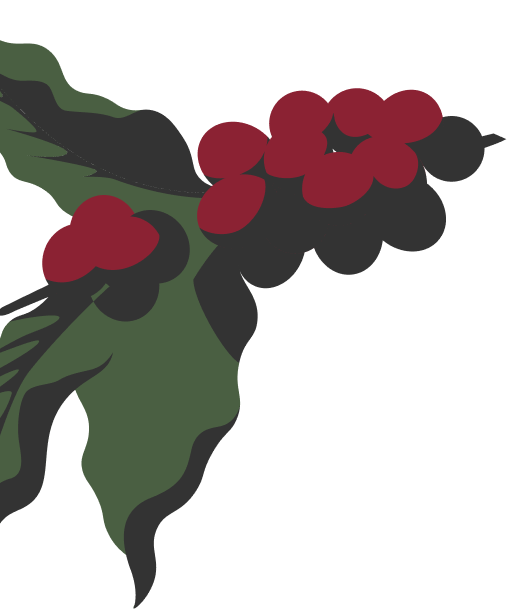
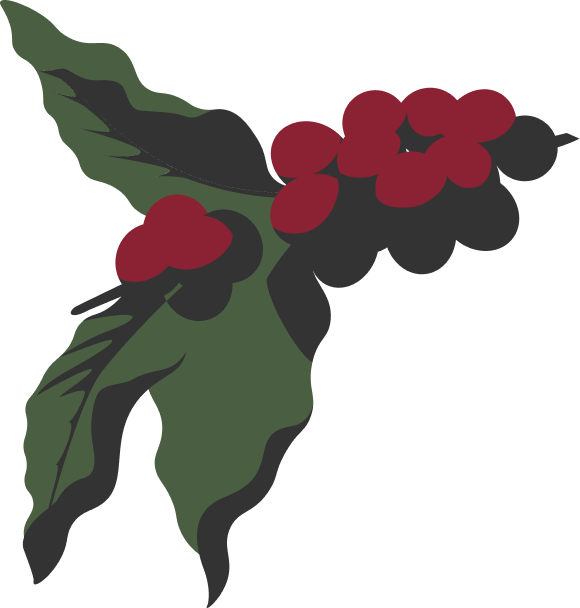
Исправлена ошибка загрузки шрифтов, положения листьев, расположения элементов внутри рамки, подключен файл скрипта(пока бесполезный)

diff --git a/styles/style.css b/styles/style.css
@@ -1,12 +1,38 @@
 /*импорт стилей текста*/
 @import url(https://db.onlinewebfonts.com/c/2d9f8eba44c6cc97753724bedd5d9f28?family=Soyuz+Grotesk+Bold);
 @import url(https://db.onlinewebfonts.com/c/500bab6b91b58ed1e94efffe8092693c?family=Manrope);
+/*Даёт возможность браузеру в течение нескольких секунд загрузить шрифт прежде чем отображать текст(font-display:fallback)*/
+@font-face{
+    font-family: "Soyuz Grotesk Bold";
+    src: url("https://db.onlinewebfonts.com/t/2d9f8eba44c6cc97753724bedd5d9f28.eot");
+    src: url("https://db.onlinewebfonts.com/t/2d9f8eba44c6cc97753724bedd5d9f28.eot?#iefix")format("embedded-opentype"),
+        url("https://db.onlinewebfonts.com/t/2d9f8eba44c6cc97753724bedd5d9f28.woff")format("woff"),
+        url("https://db.onlinewebfonts.com/t/2d9f8eba44c6cc97753724bedd5d9f28.woff2")format("woff2"),
+        url("https://db.onlinewebfonts.com/t/2d9f8eba44c6cc97753724bedd5d9f28.ttf")format("truetype"),
+        url("https://db.onlinewebfonts.com/t/2d9f8eba44c6cc97753724bedd5d9f28.svg#Soyuz Grotesk Bold")format("svg");
+    font-weight:normal;
+    font-style:normal;
+    font-display:fallback;
+}
+@font-face{
+    font-family: "Manrope";
+    src: url("https://db.onlinewebfonts.com/t/500bab6b91b58ed1e94efffe8092693c.eot");
+    src: url("https://db.onlinewebfonts.com/t/500bab6b91b58ed1e94efffe8092693c.eot?#iefix")format("embedded-opentype"),
+        url("https://db.onlinewebfonts.com/t/500bab6b91b58ed1e94efffe8092693c.woff")format("woff"),
+        url("https://db.onlinewebfonts.com/t/500bab6b91b58ed1e94efffe8092693c.woff2")format("woff2"),
+        url("https://db.onlinewebfonts.com/t/500bab6b91b58ed1e94efffe8092693c.ttf")format("truetype"),
+        url("https://db.onlinewebfonts.com/t/500bab6b91b58ed1e94efffe8092693c.svg#Manrope")format("svg");
+    font-weight:normal;
+    font-style:normal;
+    font-display:fallback;
+}
+
 /*общие правила*/
 * {
     margin: 0;
     padding: 0;
     box-sizing: border-box;
-    font-family: "Manrope";
+    font-family: Arial, Helvetica, sans-serif;
     font-size: 16px;
 }
 /*смена предустановок имыгы*/
@@ -24,7 +50,7 @@ body {
 /*описание навигации*/
 .navbar {
     position: absolute;
-    top: 10px;
+    top: 3%;
     margin-bottom: auto;
     display: flex;
     justify-content: center;
@@ -34,7 +60,7 @@ body {
 /*описание якорей навигации(ссылок)*/
 .navbar a {
     text-decoration: none;
-    /*font-family: "Manrope";*/
+    font-family: "Manrope";
     font-size: 16px;
     color: #333;
     font-weight: bold;
@@ -48,38 +74,43 @@ body {
     display: flex;
     flex-direction: column;
     align-items: center;
-    justify-content: center;
-    height: 100dvh;
-    text-align: center;
-    overflow: hidden;
-    padding-top:auto;
+    justify-content: flex-start;
+    padding-top:5%;
+    height: 90vh;
+    text-align: center;   
 }
 /*бокс рамка для заголовка текста и кнопки(ну и пока что листиков)*/
 .header-box{
     position: relative;
     padding: 20px;
-    width: 80dvw;
-    height:80dvh;
+    width: 75vw;
+    height:80vh;
     border: 5px solid #333333;
     border-radius: 20px;
     display: flex;
+    justify-content: space-between;
     flex-direction: column;
     align-items: center;
     gap: 10px;
 }
 /*ограничение размера логотипа*/
 .logo{
+    align-self: flex-start;
+    margin-top: 2%;
+    width:clamp(25px 4vw 150px);
     max-width:150px;
 }
 /*заголовок внутри рамки*/
 .header-content h1 {
+    align-self: center;
     font-family: "Soyuz Grotesk Bold";
     font-size: clamp(32px, 8vw, 80px);
     margin-bottom: 16px;
 }
 /*текст внутри рамки*/
 .header-content p {
-    /*font-family: "Manrope";*/
+    align-self: center;
+    font-family: "Manrope";
     font-size: clamp(16px, 4vw, 24px);
     text-align: center;
     margin-bottom: 24px;
@@ -91,11 +122,13 @@ body {
     color: #fff;
     max-height: 60px;
     min-width: auto;
-    width:clamp(200px 8vw 360px);
+    width:360px;
     border: none;
-    /*font-family: "Manrope";*/
+    font-family: "Manrope";
     font-size: clamp(16px, 4vw, 24px);
     border-radius: 15px;
+    align-self: flex-end;
+    margin-bottom: 2%;
     white-space: nowrap;
     cursor: pointer;
     transition: background-color 0.3s;
@@ -115,16 +148,20 @@ body {
 }
 
 .right-leaf-bottom{
-    bottom: 0;
-    right: 0;
+    bottom: -3%;
+    right: 5%;
+    transform: translate(-3%,5%);
 }
 
 .left-leaf-top{
-    top: 0;
-    left: 0;
+    max-width:40%;
+    top:-5%;
+    left: -10%;
+    transform: translate(-5%,-10%);
 }
 
 .right-leaf-top {
-    top:0;
-    right: 0;
+    top:-5%;
+    right: -5%;
+    transform: translate(-5%,-5%);
 }

diff --git a/index.html b/index.html
@@ -24,9 +24,12 @@
             <div class="header-content">
                 <h1>WHITE FEST</h1>
                 <p>Безалкогольный кофейный напиток<br> со вкусом белого вина</p>
+                
+            </div>
+            <div>
                 <button class="header-button">хочу попробовать</button>
             </div>
-            <!--листики которые потом обязательно вылетят за рамку-->
+            <!--листики-->
             <div class="left-leaf-top">
                 <img src="contents/left-leaf-top.png" alt="left leaf top decorate">
             </div>
@@ -38,5 +41,6 @@
             </div>
         </div>
     </section>
+    <!--<script  src="scripts/script.js"></script>-->
 </body>
 </html>

diff --git a/scripts/script.js b/scripts/script.js
@@ -1,0 +1,18 @@
+function updViewport(){
+    const fullHeight = window.innerHeight;
+    const dynamicHeight = window.visualViewport.height;
+    const diff = fullHeight - dynamicHeight;
+    document.documentElement.style.setProperty('--vh-diff', '${diff}px');
+};
+
+document.addEventListener('DOMContentLoaded',updViewport);
+
+var resizeTimeout;
+window.addEventListener('resize',()=>{
+    clearTimeout(resizeTimeout);
+    resizeTimeout = setTimeout(()=>{
+        updViewport();
+    }, 200);
+});
+
+document.addEventListener('fullscreenchange', updViewport);
